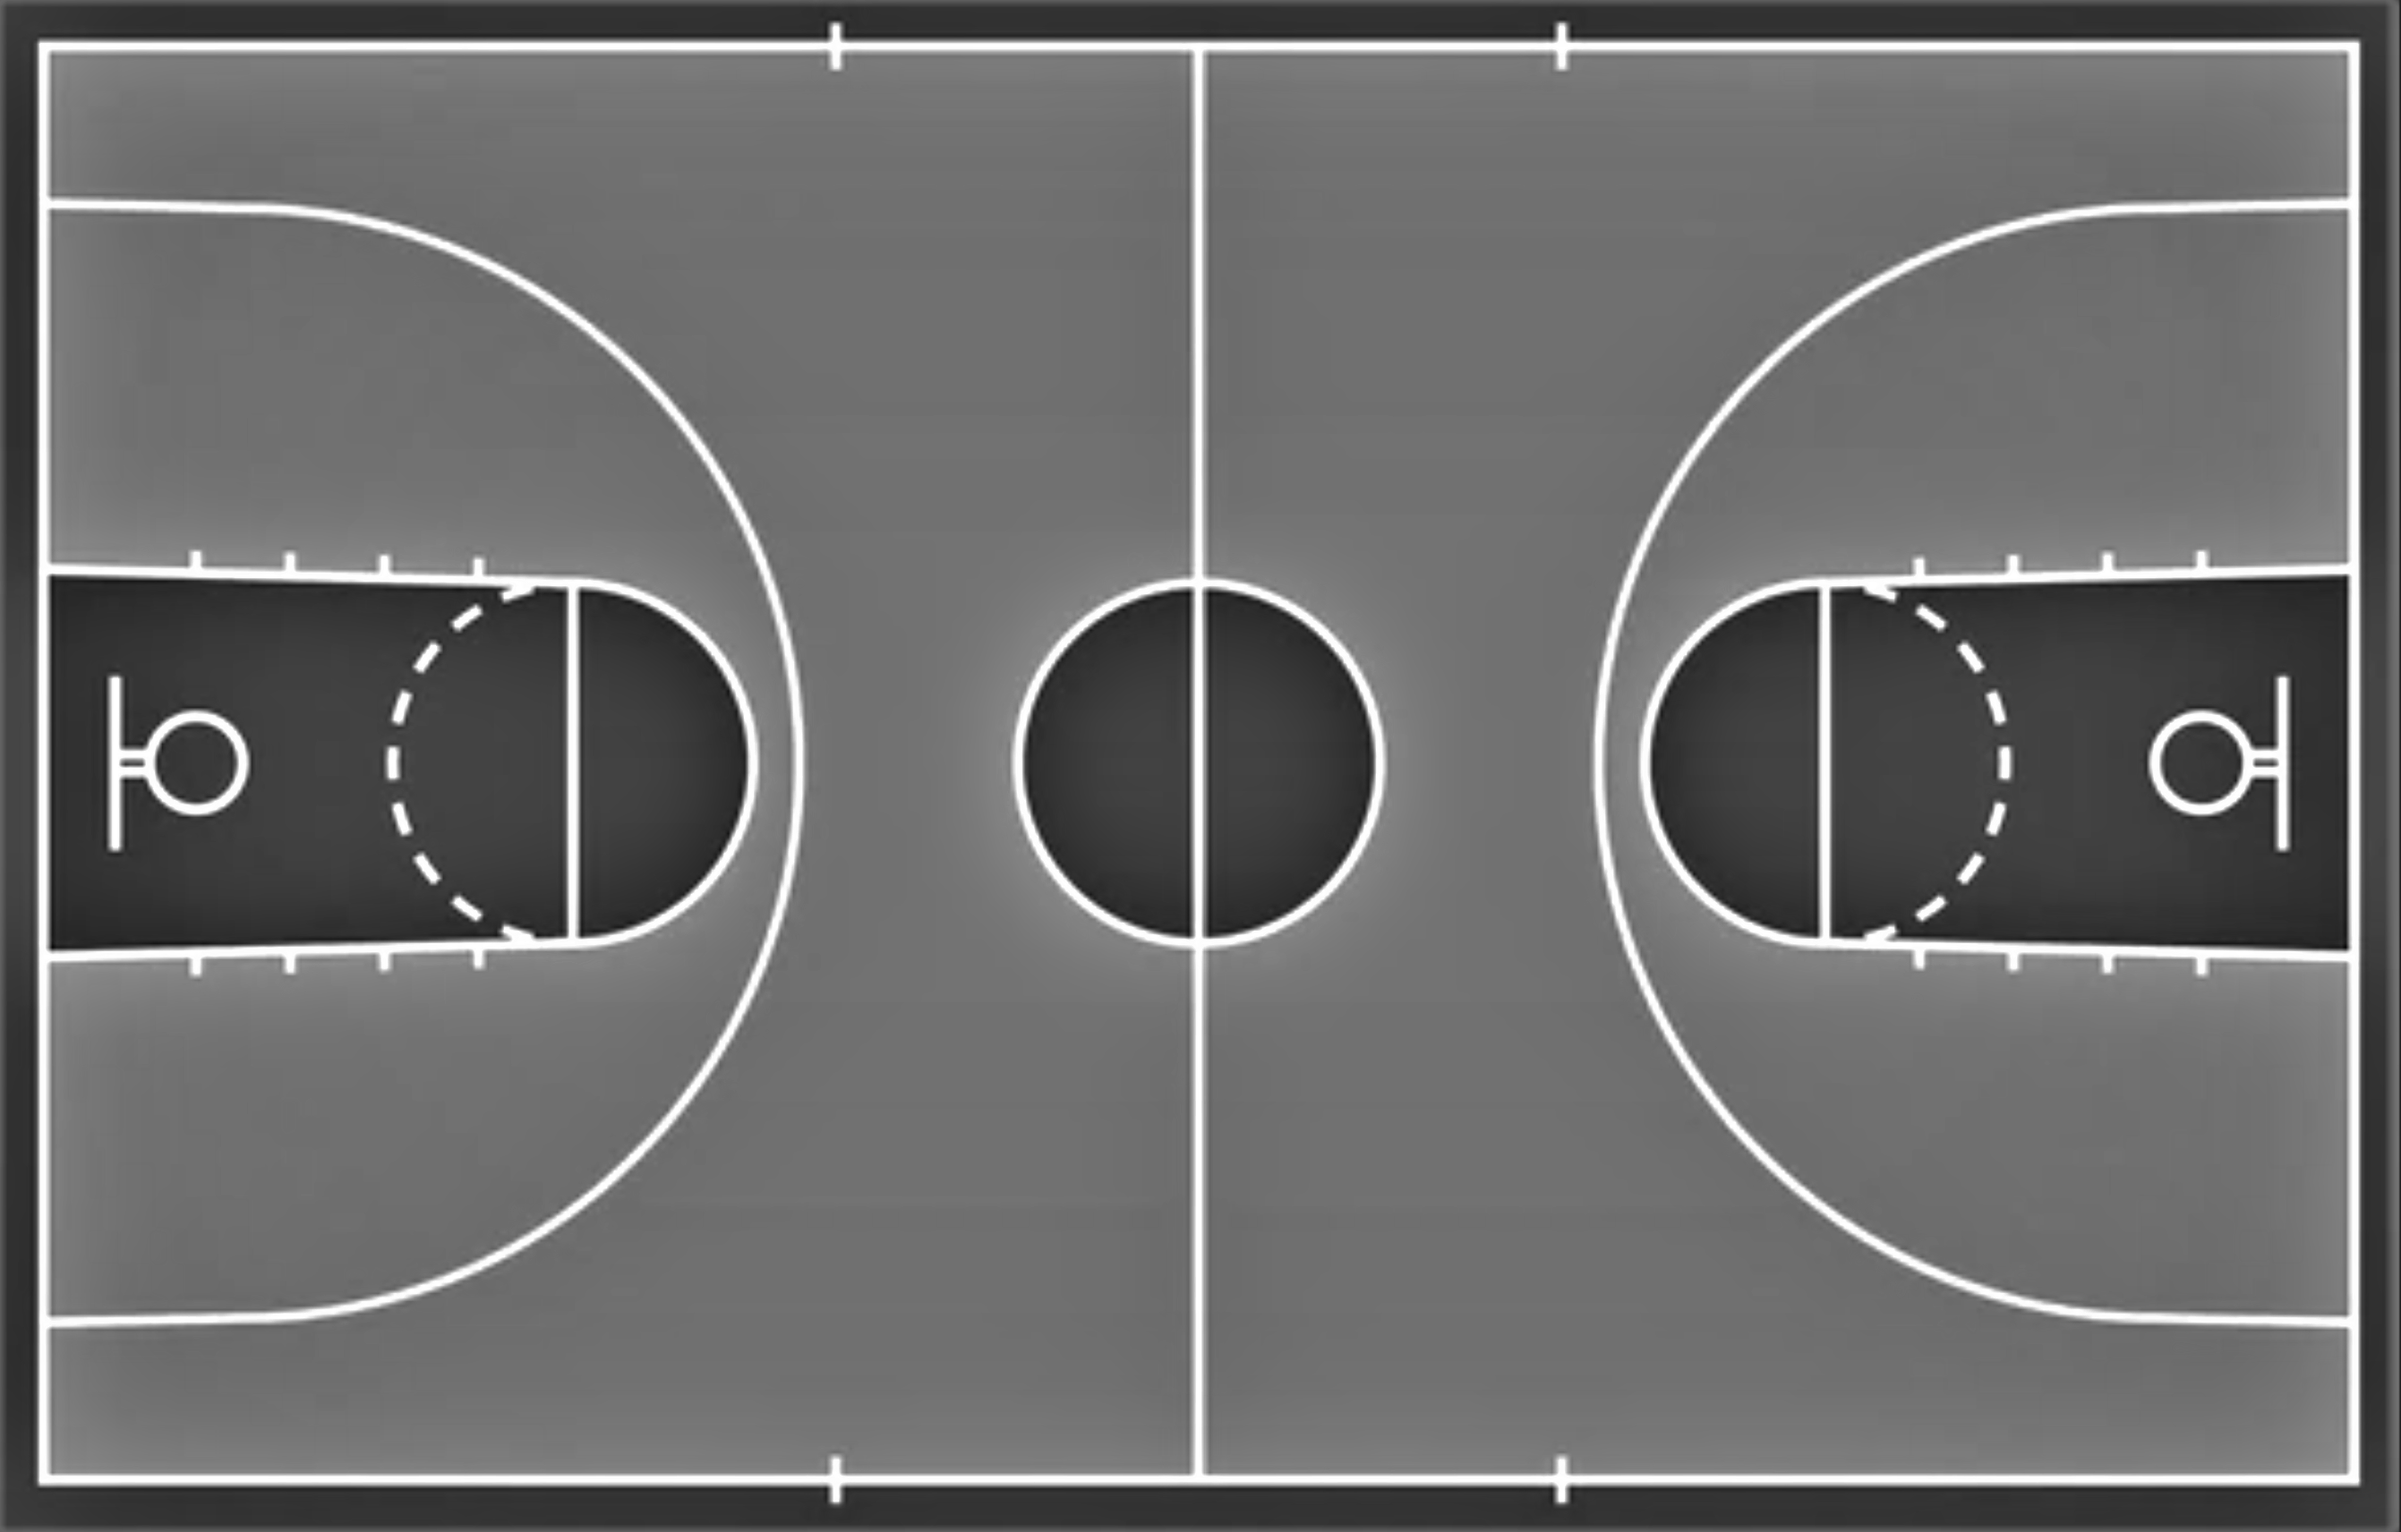
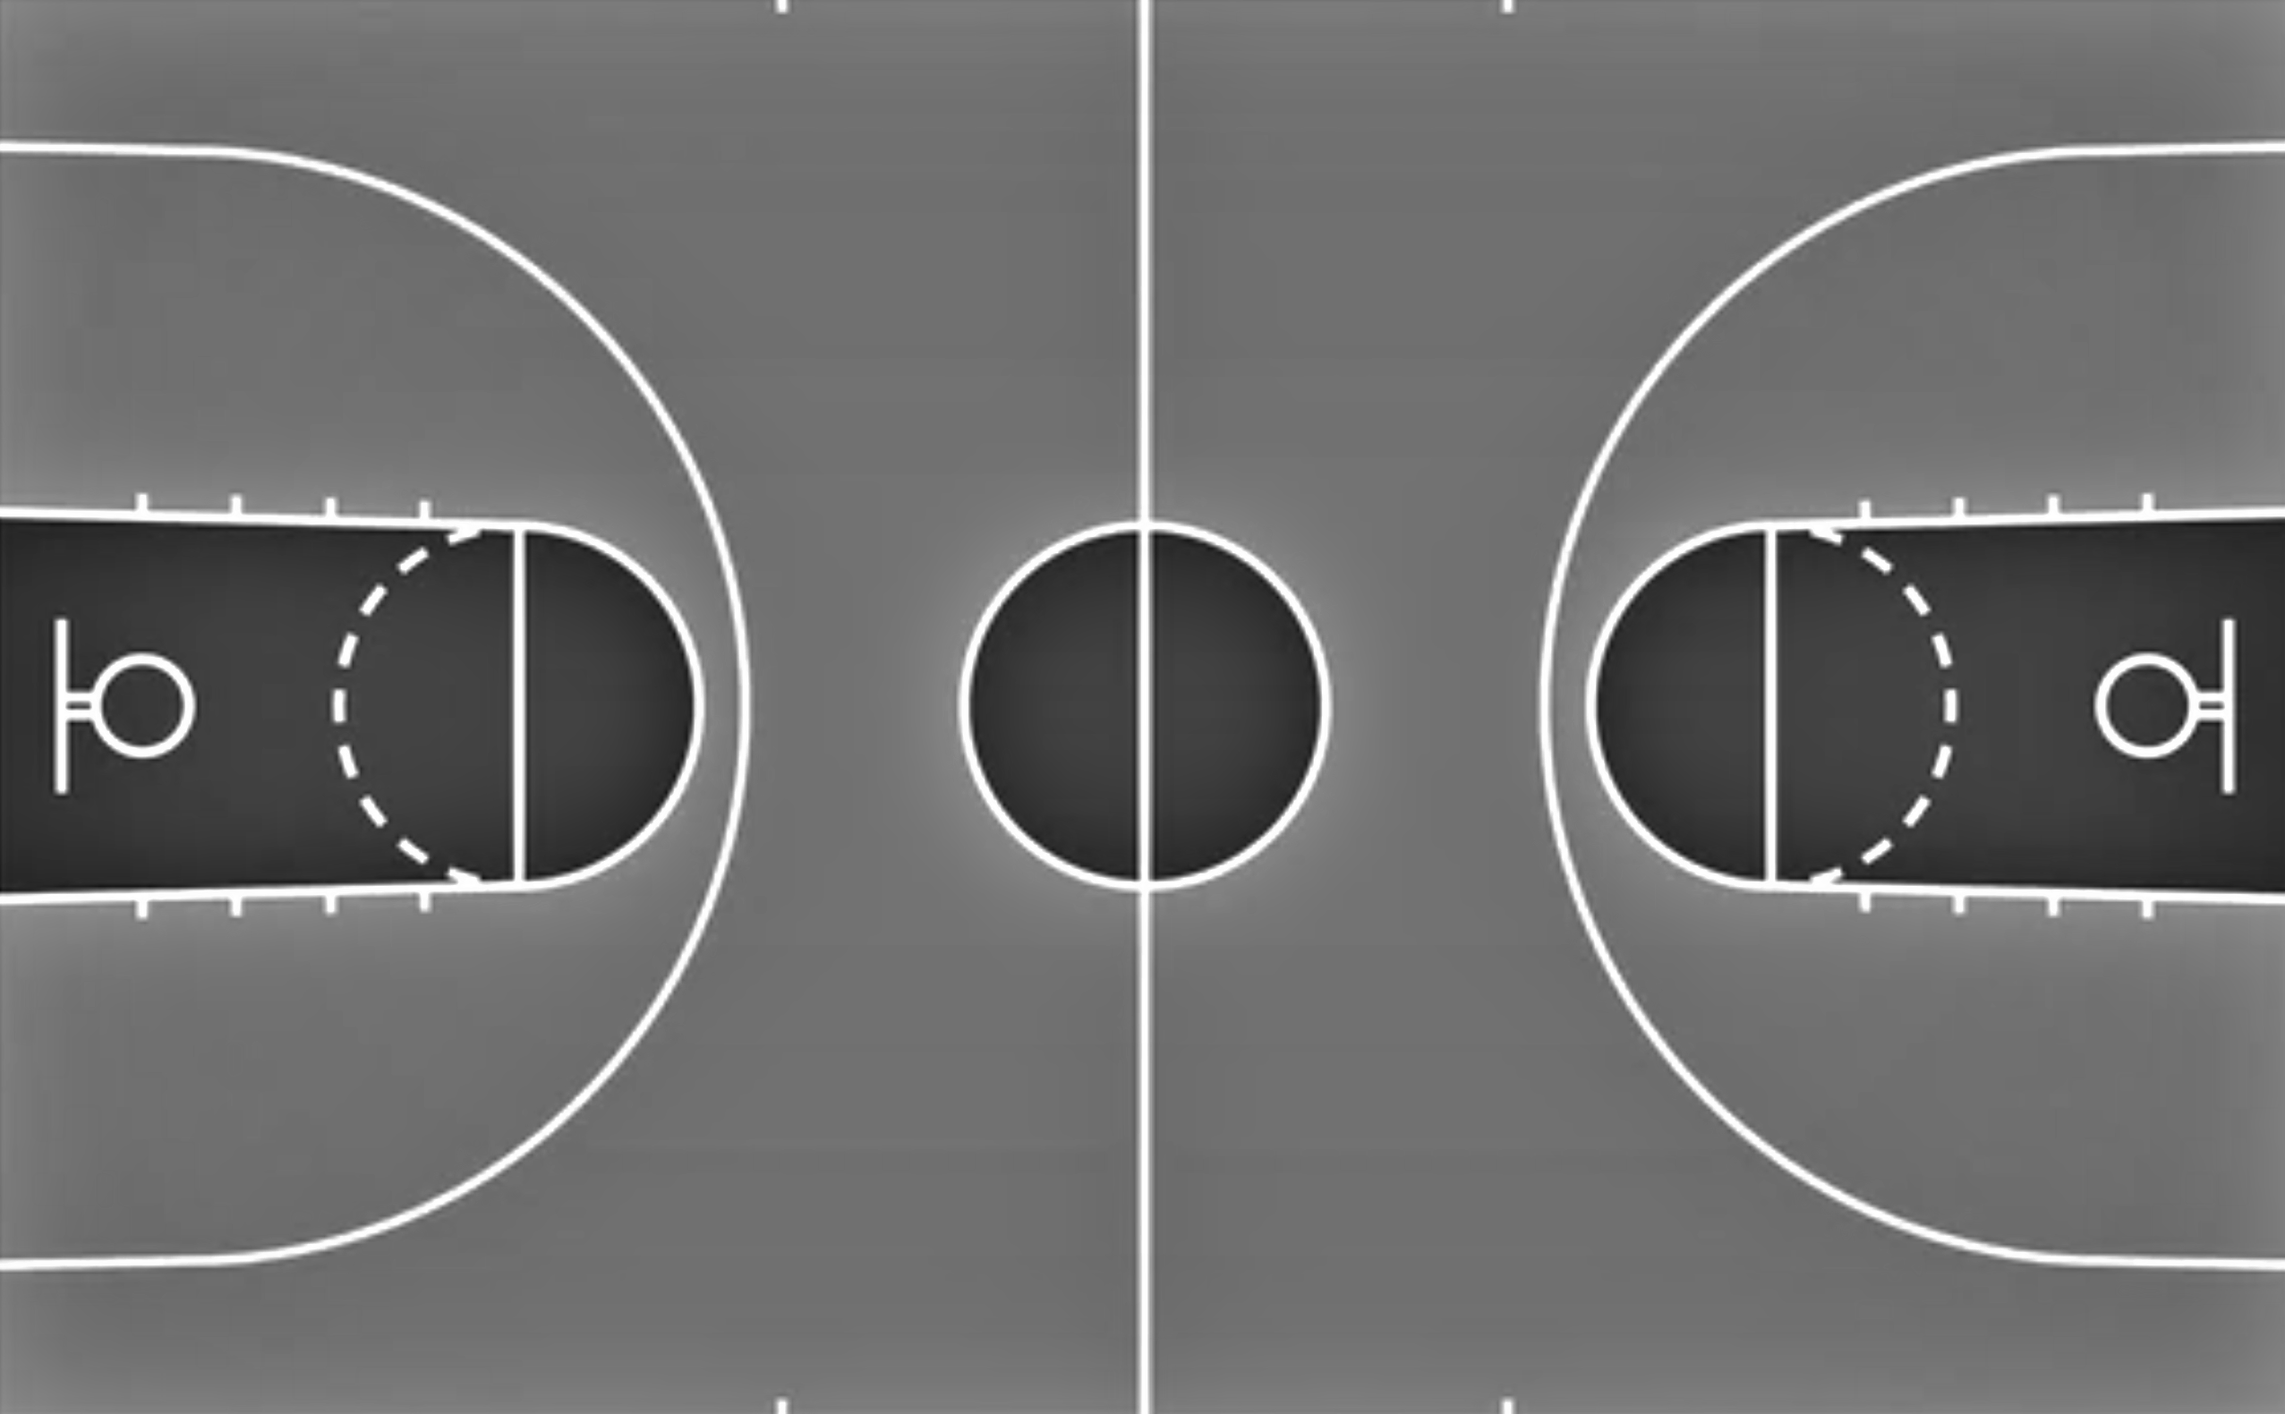
added grid to court and tweaked styles

diff --git a/style.css b/style.css
@@ -7,11 +7,15 @@
 #basketballCourt {
     width : 56vw;
     height: 36vw;
-    border: 2px solid;
+    border: 4px solid lightgrey;
     margin: 1vw;
     background-image: url("basketballCourt.png");
     background-size: cover;
     background-position: center;
+    /* This part creates the grid */
+    display: grid;
+    grid-template-columns: repeat(40,1fr);
+    grid-template-rows: repeat(20, 1fr);
 }
 
 body{
@@ -33,3 +37,4 @@ body{
 .statsLayout{
     padding: 0 20vw;
 }
+

diff --git a/script.js b/script.js
@@ -1,1 +1,13 @@
-let tafges = 33
+function createBasketBallDivs () {
+    let basketballDiv = document.getElementById("basketballCourt")
+    console.log("here")
+    for (let i=0; i < 800; i++){
+        console.log(i)
+        let createdDiv = document.createElement("div")
+        createdDiv.id = `div${i}`
+        createdDiv.style.border = "solid 0.25px green"
+        basketballDiv.appendChild(createdDiv)
+    }
+}
+
+createBasketBallDivs()

diff --git a/index.html b/index.html
@@ -38,6 +38,6 @@
             <h3>ftpt%:</h3>
         </div>
     </div>
-    
+    <script src="script.js"></script>
 </body>
 </html>
